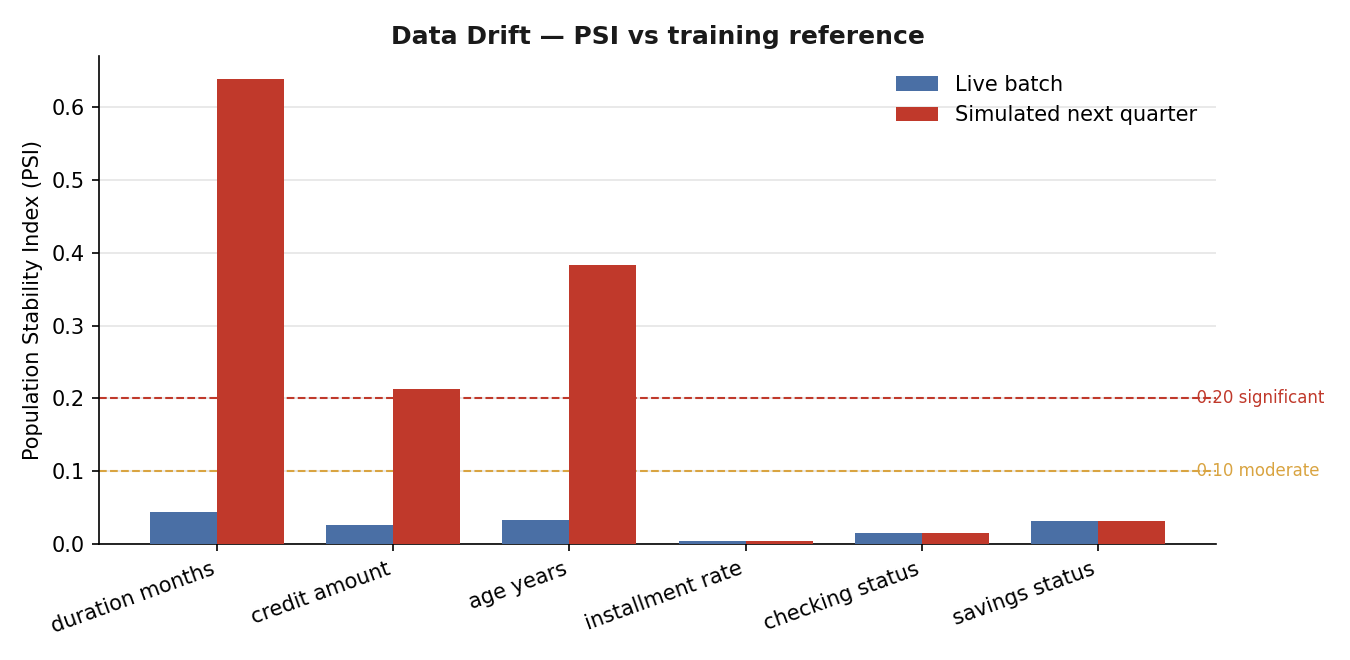
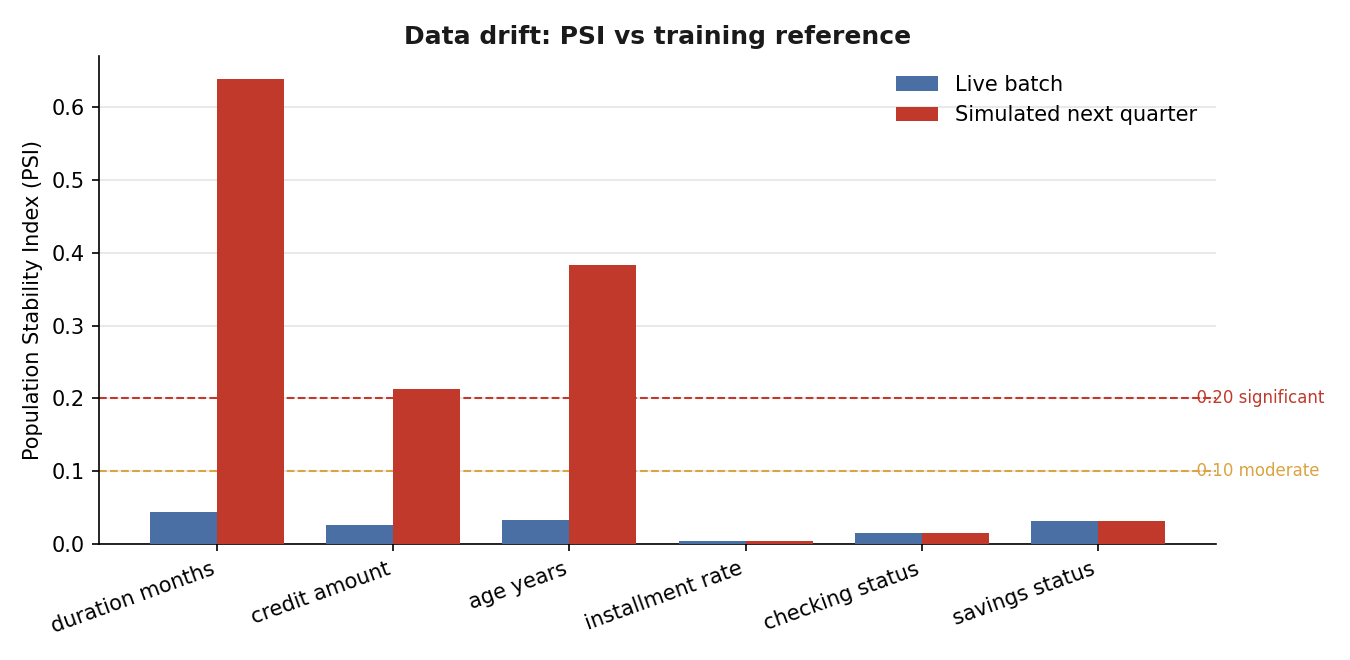
Rewrite docs and chart labels in plain language

Changed region(s): [[0.28, 0.0303, 0.6844, 0.0909]]

diff --git a/credit_bias_drift_audit.py b/credit_bias_drift_audit.py
@@ -1,33 +1,33 @@
 """
-Credit Decision Bias & Data-Drift Audit
-=======================================
-An AI-governance portfolio project by Femi Fayinminu.
+Credit Decision: Bias and Data-Drift Audit
+===========================================
+A portfolio project by Femi Fayinminu.
 
-Audits an automated credit-decision model (trained on the UCI German Credit
-dataset) for two of the risks an AI governance analyst is paid to catch:
+This audits an automated credit-decision model, trained on the UCI German
+Credit data, for two things a governance or risk analyst gets asked to check:
 
-  1. FAIRNESS / BIAS  - does the model approve some demographic groups far less
-     often than others?  (disparate impact / four-fifths rule, demographic
-     parity, equal opportunity)
-  2. DATA DRIFT       - have the model's inputs shifted away from what it was
-     built on?  (Population Stability Index), plus a simulated "next quarter"
-     batch so you can see the monitor fire.
+  1. FAIRNESS: does the model approve some groups much less often than
+     others? (disparate impact / 80 percent rule, demographic parity,
+     equal opportunity)
+  2. DATA DRIFT: have the model's inputs moved away from what it was built
+     on? (Population Stability Index), plus a made-up "next quarter" batch so
+     you can see the monitor react.
 
-Everything is computed from first principles (no black-box fairness library) so
-the logic is transparent and defensible in an interview.
+The fairness and drift checks are written by hand (no fairness library), so the
+method is easy to follow.
 
-Governance framing (NIST AI RMF): this script operationalises MEASURE (quantify
-fairness + drift) and feeds MANAGE (thresholds that trigger review).
+NIST AI RMF: this covers the Measure part (put numbers on fairness and drift)
+and feeds the Manage part (thresholds that send a case for review).
 
-Outputs (feed the Power BI "Model Governance & Drift Dashboard"):
+Outputs (feed the Power BI dashboard):
   outputs/data_quality_report.csv
   outputs/fairness_metrics.csv
   outputs/drift_metrics.csv
-and a plain-language summary to the console.
+and a plain summary to the console.
 
-Usage:   python credit_bias_drift_audit.py
-Requires: pandas, numpy, scikit-learn   (see requirements.txt)
-Data:    UCI Statlog (German Credit Data), auto-downloaded; offline fallback noted.
+Usage:    python credit_bias_drift_audit.py
+Requires: pandas, numpy, scikit-learn  (see requirements.txt)
+Data:     UCI Statlog (German Credit Data). Downloads on its own; offline fallback noted.
 """
 
 from __future__ import annotations

diff --git a/make_charts.py b/make_charts.py
@@ -1,6 +1,6 @@
 """
-Render the Model Governance & Drift dashboard charts from the audit outputs.
-Reads the CSVs in outputs/ and writes PNGs to charts/.
+Build the dashboard charts from the audit outputs.
+Reads the CSVs in outputs/ and saves PNGs to charts/.
 
 Usage:  python make_charts.py   (run credit_bias_drift_audit.py first)
 Requires: pandas, matplotlib
@@ -41,7 +41,7 @@ def fairness_chart() -> None:
                 ha="center", color=INK, fontweight="bold")
     ax.set_ylim(0, 1.15)
     ax.set_ylabel("Disparate Impact ratio\n(unprivileged / privileged approval rate)")
-    ax.set_title("Fairness — Disparate Impact of the credit-approval model",
+    ax.set_title("Fairness: disparate impact of the credit-approval model",
                  fontweight="bold", color=INK)
     ax.spines[["top", "right"]].set_visible(False)
     ax.grid(axis="y", color="#e5e5e5", zorder=0)
@@ -70,7 +70,7 @@ def drift_chart() -> None:
     ax.set_xticks(list(x))
     ax.set_xticklabels(feats, rotation=20, ha="right")
     ax.set_ylabel("Population Stability Index (PSI)")
-    ax.set_title("Data Drift — PSI vs training reference", fontweight="bold", color=INK)
+    ax.set_title("Data drift: PSI vs training reference", fontweight="bold", color=INK)
     ax.legend(frameon=False)
     ax.spines[["top", "right"]].set_visible(False)
     ax.grid(axis="y", color="#e5e5e5", zorder=0)

diff --git a/README.md b/README.md
@@ -1,100 +1,77 @@
-# Credit Decision — Bias & Data-Drift Audit
+# Credit Decision: Bias and Data-Drift Audit
 
-An AI-governance portfolio project auditing an **automated credit-decision model** for
-two of the risks a governance/risk analyst is paid to catch: **unfair outcomes** and
-**data drift**. Everything is computed from first principles (no black-box fairness
-library) so the method is transparent and defensible.
+A portfolio project. It audits an automated credit-decision model for two things a governance or risk analyst gets asked to check: is it fair, and has the data moved. I wrote the fairness and drift checks myself instead of using a library, so the method is easy to follow.
 
-**Author:** Femi Fayinminu · AI Governance & Security | Data Integrity & Requirements Analysis
-**Companion write-up (Notion):** _[add link]_  ·  **Dataset:** UCI Statlog (German Credit Data)
-
----
+**By:** Femi Fayinminu, AI Governance and Security
+**Write-up (Notion):** _[add link]_  ·  **Data:** UCI Statlog (German Credit Data)
 
 ## The question
 
-A bank uses a model to approve or decline credit. Two questions a governance review must answer:
+A bank uses a model to approve or decline credit. Two things a review has to answer:
 
-1. **Is it fair?** Does the model approve some demographic groups far less often than others —
-   even though the protected attribute (sex) was never given to it as a feature?
-2. **Is it still valid?** Have the inputs drifted away from the data the model was built on,
-   so that yesterday's model is quietly making today's decisions on a different population?
+1. **Is it fair?** Does the model approve some groups much less often than others, even though it was never given the protected trait (sex) as an input?
+2. **Is it still valid?** Has the incoming data moved away from what the model was trained on, so that yesterday's model is deciding on a different population today?
 
 ## What it does
 
-- Trains a logistic-regression approval model (sex **deliberately excluded** from the features,
-  so we can test whether disparate impact appears anyway through proxy variables).
-- **Fairness audit** on the model's approvals across protected groups:
-  - **Disparate Impact (four-fifths / 80% rule)** — ratio of approval rates (unprivileged ÷ privileged).
-  - **Demographic Parity difference** — gap in approval rates.
-  - **Equal Opportunity difference** — gap in approval rates *among genuinely creditworthy applicants*.
-- **Drift audit** using the **Population Stability Index (PSI)** per feature, with a simulated
-  "next quarter" production batch so you can see the monitor fire.
+- Trains a logistic-regression approval model. I leave sex out of the inputs on purpose, so I can test whether unfairness still shows up through other columns.
+- **Fairness check** on the model's approvals across groups:
+  - **Disparate impact (the 80 percent rule):** the ratio of approval rates, unprivileged over privileged.
+  - **Demographic parity gap:** the difference in approval rates.
+  - **Equal opportunity gap:** the difference in approval rates among people who are actually creditworthy.
+- **Drift check** using the Population Stability Index (PSI) for each feature, with a made-up "next quarter" batch so you can see the monitor react.
 
-### NIST AI RMF mapping
-This operationalises the **MEASURE** function (quantify fairness + drift) and feeds **MANAGE**
-(thresholds that trigger human review): DI < 0.80 = fail, 0.80–0.90 = watch; PSI ≥ 0.2 = significant drift.
+### How it maps to the NIST AI RMF
+It covers the Measure part (put a number on fairness and drift) and feeds the Manage part (set thresholds that send a case to a person): disparate impact below 0.80 fails, 0.80 to 0.90 is a watch, and a PSI of 0.2 or more is real drift.
 
 ## Run it
 
 ```bash
 pip install -r requirements.txt
 python credit_bias_drift_audit.py
+python make_charts.py
 ```
 
-The dataset downloads automatically (offline fallback: drop `german.data` beside the script).
-Outputs land in `outputs/` and feed the Power BI dashboard:
+The data downloads on its own. If you are offline, put `german.data` next to the script. Results go to `outputs/` and feed the charts and the Power BI dashboard.
 
-| File | Contents |
+| File | What is in it |
 |---|---|
-| `outputs/data_quality_report.csv` | dtype, missing values, cardinality per column |
-| `outputs/fairness_metrics.csv` | per-group rates + DI / parity / equal-opportunity summary |
-| `outputs/drift_metrics.csv` | PSI per feature, live vs. simulated next batch |
+| `outputs/data_quality_report.csv` | type, missing values and number of unique values per column |
+| `outputs/fairness_metrics.csv` | rates per group, plus the disparate impact and parity summary |
+| `outputs/drift_metrics.csv` | PSI per feature, live batch vs the made-up next batch |
 
-## Findings (reproducible, fixed seed)
+## Findings (same every run, fixed seed)
 
 **Fairness**
 
-| Protected attribute | Disparate impact | Demographic-parity gap | Equal-opportunity gap | Verdict |
+| Group | Disparate impact | Parity gap | Equal opportunity gap | Result |
 |---|---|---|---|---|
-| Sex (female vs male) | **0.93** | 0.05 | 0.03 | PASS (within 80% rule) |
-| Age group (under-25 vs 25+) | **0.86** | 0.11 | 0.13 | **WATCH** |
+| Sex (female vs male) | **0.93** | 0.05 | 0.03 | Passes the 80 percent rule |
+| Age (under 25 vs 25 and over) | **0.86** | 0.11 | 0.13 | **Watch** |
 
-Even though **sex was never a model input**, outcomes are close to parity on sex — but **age
-shows a real signal**: applicants under 25 are approved at ~86% the rate of older applicants, and
-the equal-opportunity gap (0.13) means that *even among genuinely creditworthy applicants*, younger
-ones are approved less often. It sits above the 0.80 legal-red-flag line but inside the zone that
-warrants investigation and a documented business justification.
+Even though sex is never an input, the result on sex is close to fair, and the model did not pick up the bias through other columns. Age is different: people under 25 are approved at about 86 percent of the rate of older people, and the gap holds even among young people who are actually creditworthy. It sits above the 0.80 legal line but in the range that needs a closer look and a written business reason.
 
-**Drift** — PSI stays below 0.1 on the live test set (no drift, as expected), and the monitor
-**correctly fires** on the simulated next-quarter batch: `duration_months` (0.64), `age_years`
-(0.38) and `credit_amount` (0.21) all breach the 0.2 "significant" threshold, while unchanged
-features stay quiet. This demonstrates a monitor that is silent when it should be and loud when it matters.
+**Drift.** PSI stays low on the live data (no drift, as expected). The monitor reacts on the made-up next-quarter batch: loan duration (0.64), age (0.38) and credit amount (0.21) all cross the 0.2 line, while the columns I did not change stay quiet. So it is quiet when it should be and loud when it matters.
 
 ## Dashboard
 
-Generate the visuals with `python make_charts.py` (reads the CSVs, writes to `charts/`):
+Run `python make_charts.py` to build the charts from the CSVs (saved to `charts/`):
 
-![Fairness — disparate impact](charts/fairness_disparate_impact.png)
+![Fairness, disparate impact](charts/fairness_disparate_impact.png)
 
-![Data drift — PSI](charts/drift_psi.png)
+![Data drift, PSI](charts/drift_psi.png)
 
-## Recommended controls (the governance output)
+## What to do about it (the governance output)
 
-- **Age**: require a documented, legitimate business justification for the age gap; add a
-  recurring fairness check to the model's monitoring with DI as a tracked KPI.
-- **Drift**: schedule the PSI check on each new batch; PSI ≥ 0.2 on any decision-relevant feature
-  triggers a human review and a retraining decision before the model keeps deciding.
-- **Proxies**: because disparate impact can appear without the protected attribute as a feature,
-  audit *outcomes*, not just inputs.
+- **Age:** ask for a clear business reason for the gap, and track disparate impact as a number you watch.
+- **Drift:** run the PSI check on every new batch. A PSI of 0.2 or more on any decision column sends the batch to a person and a retrain decision before the model keeps deciding.
+- **Proxies:** unfairness can show up without the protected trait being an input, so check the outcomes, not just the inputs.
 
-## Honest limitations
+## Honest limits
 
-- The target label is historical credit outcomes, which may themselves carry bias; a real audit
-  would also examine label provenance.
-- The "next quarter" drift is simulated to demonstrate the monitor; in production it runs on real batches.
-- `foreign_worker` was excluded from the fairness view because the domestic subgroup is too small
-  (~3.7% of records) for a stable rate — a real audit would flag it as "insufficient sample, monitor".
+- The label is past credit outcomes, which may carry their own bias. A real audit would also look at where the label came from.
+- The next-quarter drift is made up to show the monitor working. In real life it runs on real batches.
+- I left `foreign_worker` out of the fairness view because the home group is too small (about 3.7 percent) for a steady rate. A real audit would mark it as too small to judge and keep watching.
 
-## Skills shown
-Python · scikit-learn · pandas/numpy · fairness metrics · PSI drift detection · data-quality profiling ·
-NIST AI RMF framing · translating technical findings into controls for non-technical leadership.
+## What this shows
+Python, scikit-learn, pandas and numpy, fairness checks, PSI drift detection, data-quality checks, NIST AI RMF framing, and turning the result into controls a non-technical manager can act on.

diff --git a/EXECUTIVE_SUMMARY.md b/EXECUTIVE_SUMMARY.md
@@ -1,40 +1,29 @@
-# Executive Summary — Credit Model Bias & Drift Audit
+# Executive Summary: Credit Model Bias and Drift Audit
 
-**Prepared by:** Femi Fayinminu  ·  **Audience:** Risk / Compliance leadership (non-technical)
-**Scope:** Fairness and data-drift review of an automated credit-approval model.
+**By:** Femi Fayinminu  ·  **For:** risk and compliance leaders (non-technical)
+**Scope:** a fairness and data-drift review of an automated credit-approval model.
 
-## Why this matters
-An automated model decides who gets credit. If it approves some groups far less often than others,
-the bank carries legal and reputational risk; if the incoming data has shifted away from what the
-model was trained on, the model is making today's decisions on yesterday's assumptions. This review
-measured both.
+## Why it matters
+A model decides who gets credit. If it approves some groups much less often than others, the bank carries legal and reputation risk. If the incoming data has moved away from what the model was trained on, the model is deciding today on old assumptions. This review checked both.
 
 ## What we found
 
-**1. Fairness — one green, one to watch.**
-- **Sex:** approvals are effectively at parity (disparate-impact ratio 0.93, inside the 80% rule).
-  Notably, the model was never given sex as an input, and it did **not** back-door the bias through
-  proxies — a good result.
-- **Age:** applicants **under 25 are approved at ~86% the rate of older applicants** (disparate-impact
-  ratio 0.86). The gap holds **even among genuinely creditworthy young applicants**. This is above the
-  0.80 legal-red-flag line but inside the zone that requires a documented justification and ongoing monitoring.
+**1. Fairness: one is fine, one to watch.**
+- **Sex:** approvals are close to even (ratio 0.93, inside the 80 percent rule). The model was never given sex, and it did not pick up the bias through other columns, which is a good sign.
+- **Age:** people under 25 are approved at about 86 percent of the rate of older people (ratio 0.86). The gap holds even among young people who are actually creditworthy. It is above the 0.80 legal line but in the range that needs a written reason and ongoing checks.
 
-**2. Drift monitoring — working as designed.**
-- On current data, the monitor is quiet (no meaningful drift).
-- On a simulated next-quarter batch, it **correctly flagged** significant shifts in loan duration, age,
-  and credit amount — the signal a team needs to pause and re-check the model before it keeps deciding.
+**2. Drift monitor: working.**
+- On current data, the monitor is quiet (no real drift).
+- On a made-up next-quarter batch, it flagged big moves in loan length, age and credit amount, which is the sign a team needs to pause and recheck the model.
 
-## Risk if ignored
-- **Age gap unexamined** → potential discrimination exposure and no audit trail of a justification.
-- **No drift gate** → silent model decay; approvals drift off-target without anyone noticing until losses appear.
+## The risk if we ignore it
+- Leaving the age gap unchecked: possible discrimination risk, with no record of a reason.
+- No drift gate: the model quietly goes off target and no one notices until losses show up.
 
-## Recommended actions
-1. Require a documented business justification for the age gap; track disparate impact as a monitored KPI.
-2. Run the drift check on every new batch; a PSI of 0.2+ on any decision feature triggers human review
-   and a retraining decision.
-3. Audit **outcomes**, not just inputs — bias can appear without the protected attribute being a feature.
+## What to do
+1. Ask for a clear business reason for the age gap, and track disparate impact as a number you watch.
+2. Run the drift check on every new batch. A PSI of 0.2 or more on any decision column sends it to a person and a retrain decision.
+3. Check the outcomes, not just the inputs. Bias can show up without the protected trait being an input.
 
-## Framework alignment
-Maps to the **NIST AI RMF** Measure function (quantifying fairness and drift) and Manage function
-(thresholds that trigger review), and to the fairness/transparency expectations in **ISO/IEC 42001**
-and the **EU AI Act** high-risk requirements for data governance and accuracy monitoring.
+## How it lines up with the rules
+It matches the NIST AI RMF Measure part (put numbers on fairness and drift) and Manage part (thresholds that send a case for review), and the fairness and transparency parts of ISO/IEC 42001 and the EU AI Act high-risk rules for data handling and accuracy checks.
